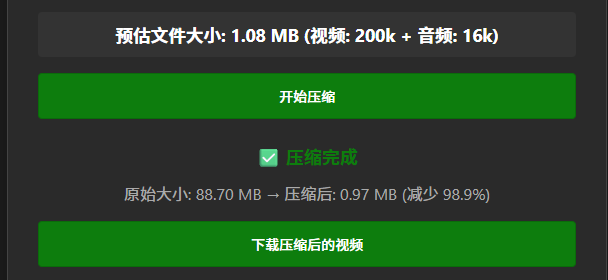
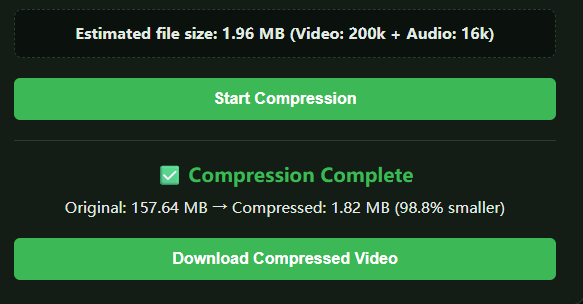
docs: add download step screenshot to README workflow

diff --git a/README.md b/README.md
@@ -45,6 +45,10 @@
 
 ![Estimated vs Actual](./doc/images/preview.压缩完成以后.预估和实际的大小对比.png)
 
+**Download complete** — Click the button to download the compressed video from your browser
+
+![Download](./doc/images/preview.压缩完成以后.可以点击按钮从浏览器下载到本次磁盘捏.png)
+
 ## 💻 Local Development
 
 ### Requirements

diff --git a/README-zh_cn.md b/README-zh_cn.md
@@ -45,6 +45,10 @@
 
 ![预估与实际对比](./doc/images/preview.压缩完成以后.预估和实际的大小对比.png)
 
+**下载到本地** — 压缩完成后，点击按钮从浏览器下载到本地磁盘
+
+![下载](./doc/images/preview.压缩完成以后.可以点击按钮从浏览器下载到本次磁盘捏.png)
+
 ## 💻 本地开发
 
 ### 环境要求
